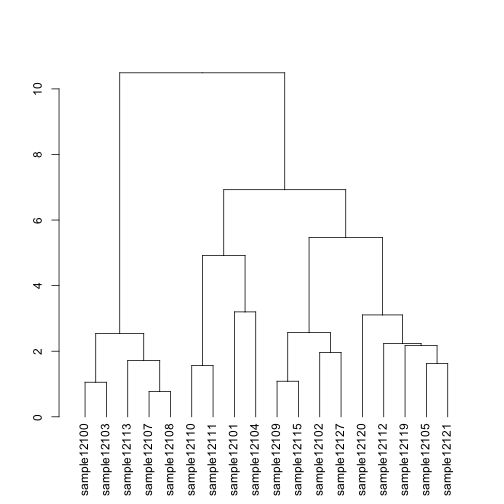
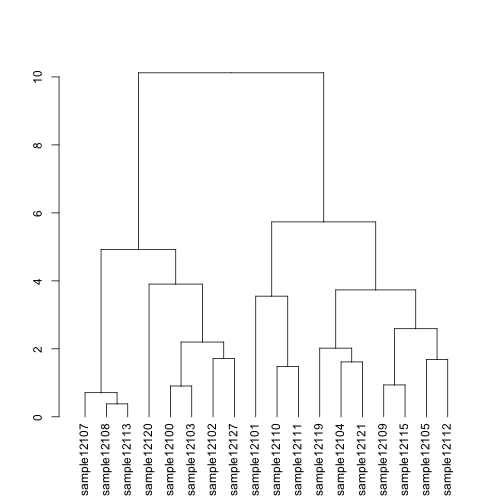
Updated heatmap analysis.

diff --git a/scripts/heatmaps.md b/scripts/heatmaps.md
@@ -6,40 +6,17 @@ Statistics
 
 
 ```
-## Loading required package: knitcitations Loading required package: bibtex
+## Loading required package: knitcitations
+## Loading required package: bibtex
 ## 
 ## Attaching package: 'knitcitations'
 ## 
 ## The following object is masked from 'package:utils':
 ## 
-## cite
+##     cite
 ```
 
-This file was most recently processed on ``Mon Oct  7 09:30:28 2013``.  This uses the genes which were subsetted (only the highest 40\%).  Also, this uses the DESeq normalized data.
-
-Data Clustering
-----------------
-The following is a cluster analysis of the scaled transcript counts.  This was done with bootstrap resampling of the normalized, scaled transcript counts using the **pvclust** package(<a href="http://CRAN.R-project.org/package=pvclust">Suzuki & Shimodaira, 2011</a>)). 
-
-```{clustering, echo=FALSE, dev=c('png','pdf'), echo=FALSE, fig.show='asis'}
-#scaled the data
-scaled.sample.transcript.counts <- scale(filtered.transcript.counts)
-
-#cluster number determination (see http://www.statmethods.net/advstats/cluster.html)
-wss <- (nrow(scaled.sample.transcript.counts)-1)*sum(apply(scaled.sample.transcript.counts,2,var))
-for (i in 2:15) wss[i] <- sum(kmeans(scaled.sample.transcript.counts, 
-     centers=i)$withinss)
-plot(1:15, wss, type="b", xlab="Number of Clusters",
-  ylab="Within groups sum of squares",
-     main="Cluster Number Determination (3)")
-
-library(pvclust)
-fit <- pvclust(scaled.sample.transcript.counts, method.hclust="ward",
-   method.dist="euclidean")
-plot(fit) # dendogram with p values
-# add rectangles around groups highly supported by the data
-pvrect(fit, alpha=.95)
-```
+This file was most recently processed on ``Sun Nov 17 10:44:56 2013``.  This uses the DESeq normalized data.
 
 
 Differentially Expressed Genes
@@ -49,42 +26,33 @@ To test the grouping of differentially expressed transcripts, we only examined g
 
 
 ```
-## gdata: read.xls support for 'XLS' (Excel 97-2004) files ENABLED.
-## 
-## gdata: read.xls support for 'XLSX' (Excel 2007+) files ENABLED.
-## 
-## Attaching package: 'gdata'
-## 
-## The following object is masked from 'package:stats':
-## 
-## nobs
-## 
-## The following object is masked from 'package:utils':
-## 
-## object.size
-## 
-## KernSmooth 2.23 loaded Copyright M. P. Wand 1997-2009
+## KernSmooth 2.23 loaded
+## Copyright M. P. Wand 1997-2009
 ## 
 ## Attaching package: 'gplots'
 ## 
 ## The following object is masked from 'package:stats':
 ## 
-## lowess
+##     lowess
 ```
 
-![plot of chunk de-heatmap](figure/de-heatmap1.png) ![plot of chunk de-heatmap](figure/de-heatmap2.png) 
+![plot of chunk de-heatmap](figure/de-heatmap1.png) 
 
 ```
-## pdf 
-##   2
+## Error: cannot open file '../figures/differential-expressor-heatmap.pdf'
+```
+
+![plot of chunk de-heatmap](figure/de-heatmap2.png) 
+
+```
+## null device 
+##           1
 ```
 
 
 References
 -----------
 
-- Ryota Suzuki, Hidetoshi Shimodaira,   (2011) pvclust: Hierarchical Clustering with P-Values via Multiscale Bootstrap
-Resampling.  [http://CRAN.R-project.org/package=pvclust](http://CRAN.R-project.org/package=pvclust)
 
 
 Session Information
@@ -95,25 +63,24 @@ sessionInfo()
 ```
 
 ```
-## R version 3.0.1 (2013-05-16)
+## R version 3.0.2 (2013-09-25)
 ## Platform: x86_64-apple-darwin10.8.0 (64-bit)
 ## 
 ## locale:
 ## [1] en_US.UTF-8/en_US.UTF-8/en_US.UTF-8/C/en_US.UTF-8/en_US.UTF-8
 ## 
 ## attached base packages:
-## [1] grid      stats     graphics  grDevices utils     datasets  methods  
-## [8] base     
+## [1] stats     graphics  grDevices utils     datasets  methods   base     
 ## 
 ## other attached packages:
-##  [1] RColorBrewer_1.0-5  gplots_2.11.3       MASS_7.3-28        
-##  [4] KernSmooth_2.23-10  caTools_1.14        gdata_2.13.2       
-##  [7] gtools_3.0.0        knitcitations_0.5-0 bibtex_0.3-6       
-## [10] knitr_1.4          
+## [1] RColorBrewer_1.0-5  gplots_2.12.1       knitcitations_0.5-0
+## [4] bibtex_0.3-6        knitr_1.5          
 ## 
 ## loaded via a namespace (and not attached):
-##  [1] bitops_1.0-5   digest_0.6.3   evaluate_0.4.7 formatR_0.9   
-##  [5] httr_0.2       RCurl_1.95-4.1 stringr_0.6.2  tools_3.0.1   
-##  [9] XML_3.95-0.2   xtable_1.7-1
+##  [1] bitops_1.0-6       caTools_1.16       digest_0.6.3      
+##  [4] evaluate_0.5.1     formatR_0.10       gdata_2.13.2      
+##  [7] gtools_3.1.1       httr_0.2           KernSmooth_2.23-10
+## [10] RCurl_1.95-4.1     stringr_0.6.2      tools_3.0.2       
+## [13] XML_3.95-0.2       xtable_1.7-1
 ```
 

diff --git a/README.md b/README.md
@@ -34,7 +34,10 @@ This file performs the DESeq analysis both including and removing the one outlie
 
 This script searches KEGG and GO for enriched categories and pathways.  This generates a variety of Gene Ontology Analysis files and the data for Table 2.
 
-4. heatmaps.Rmd 
+### heatmaps.Rmd 
+
+This generates the heatmap used in Figure 2.
+
 5. barplots.Rmd
 6. acromegaly_clinical_analysis.Rmd
 7. GEO_comparasons.Rmd
